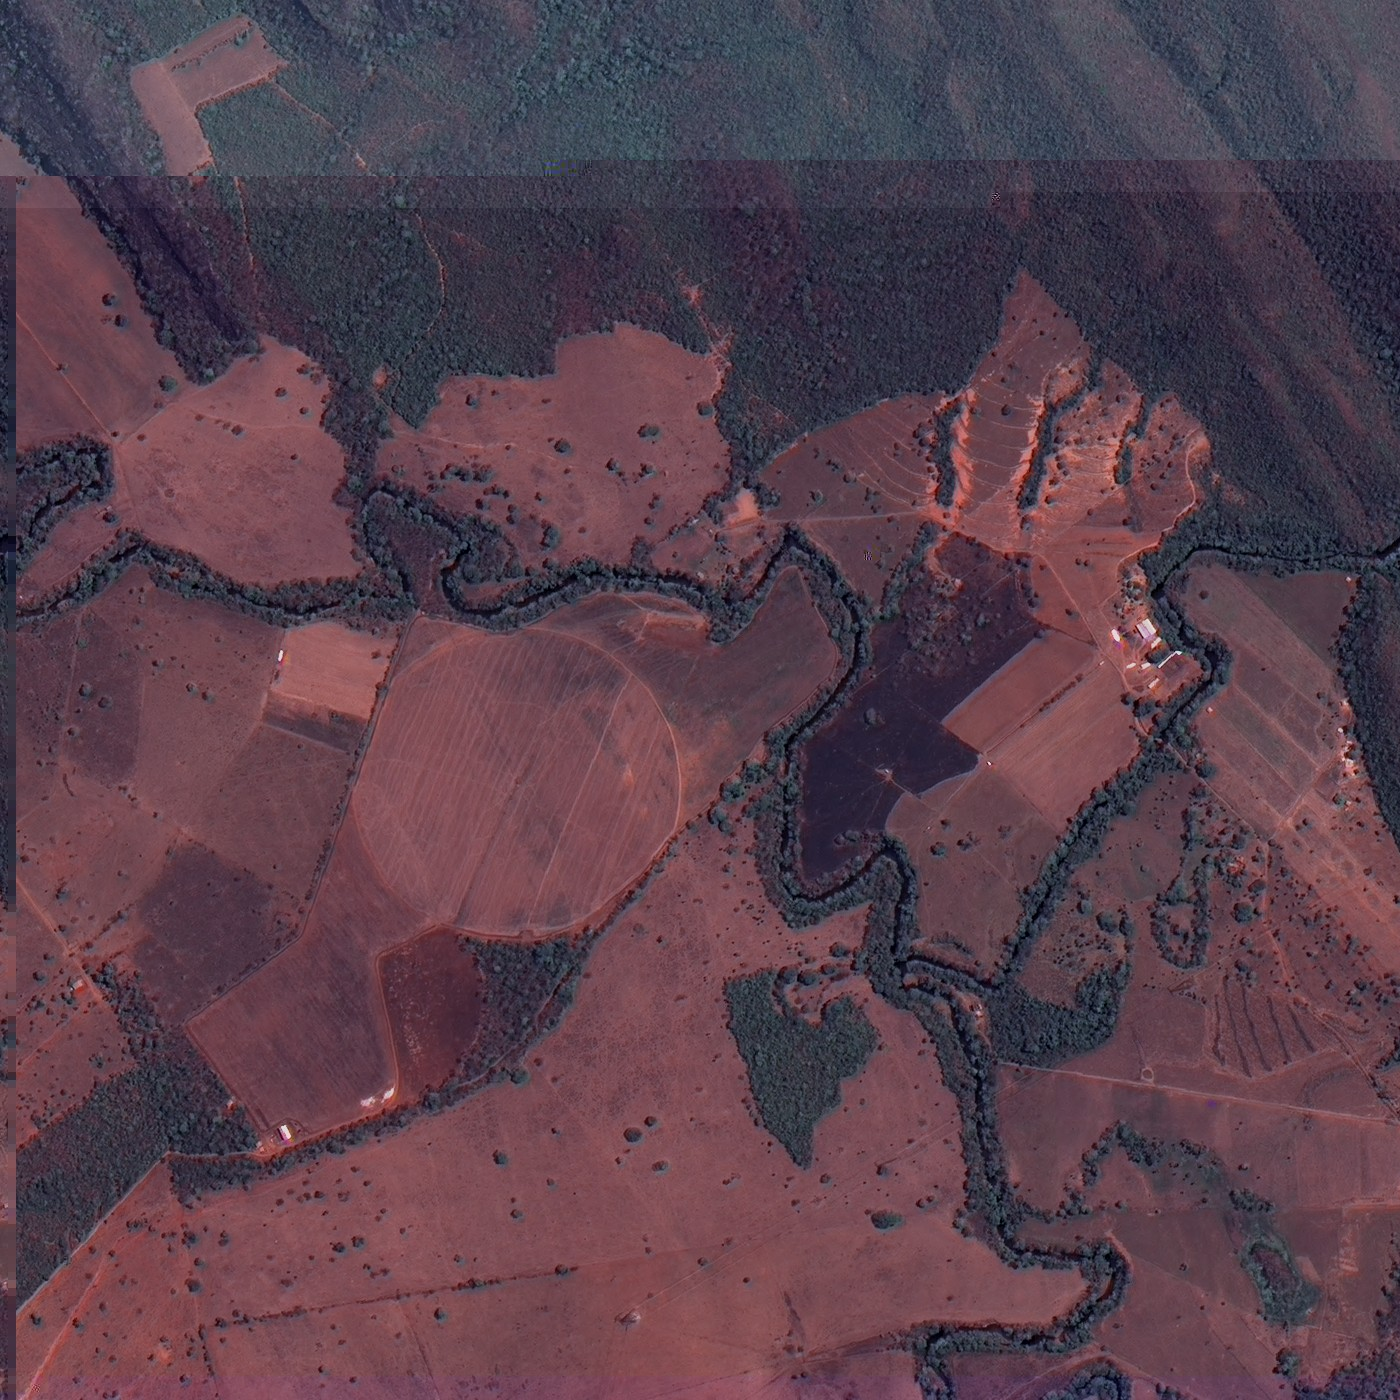
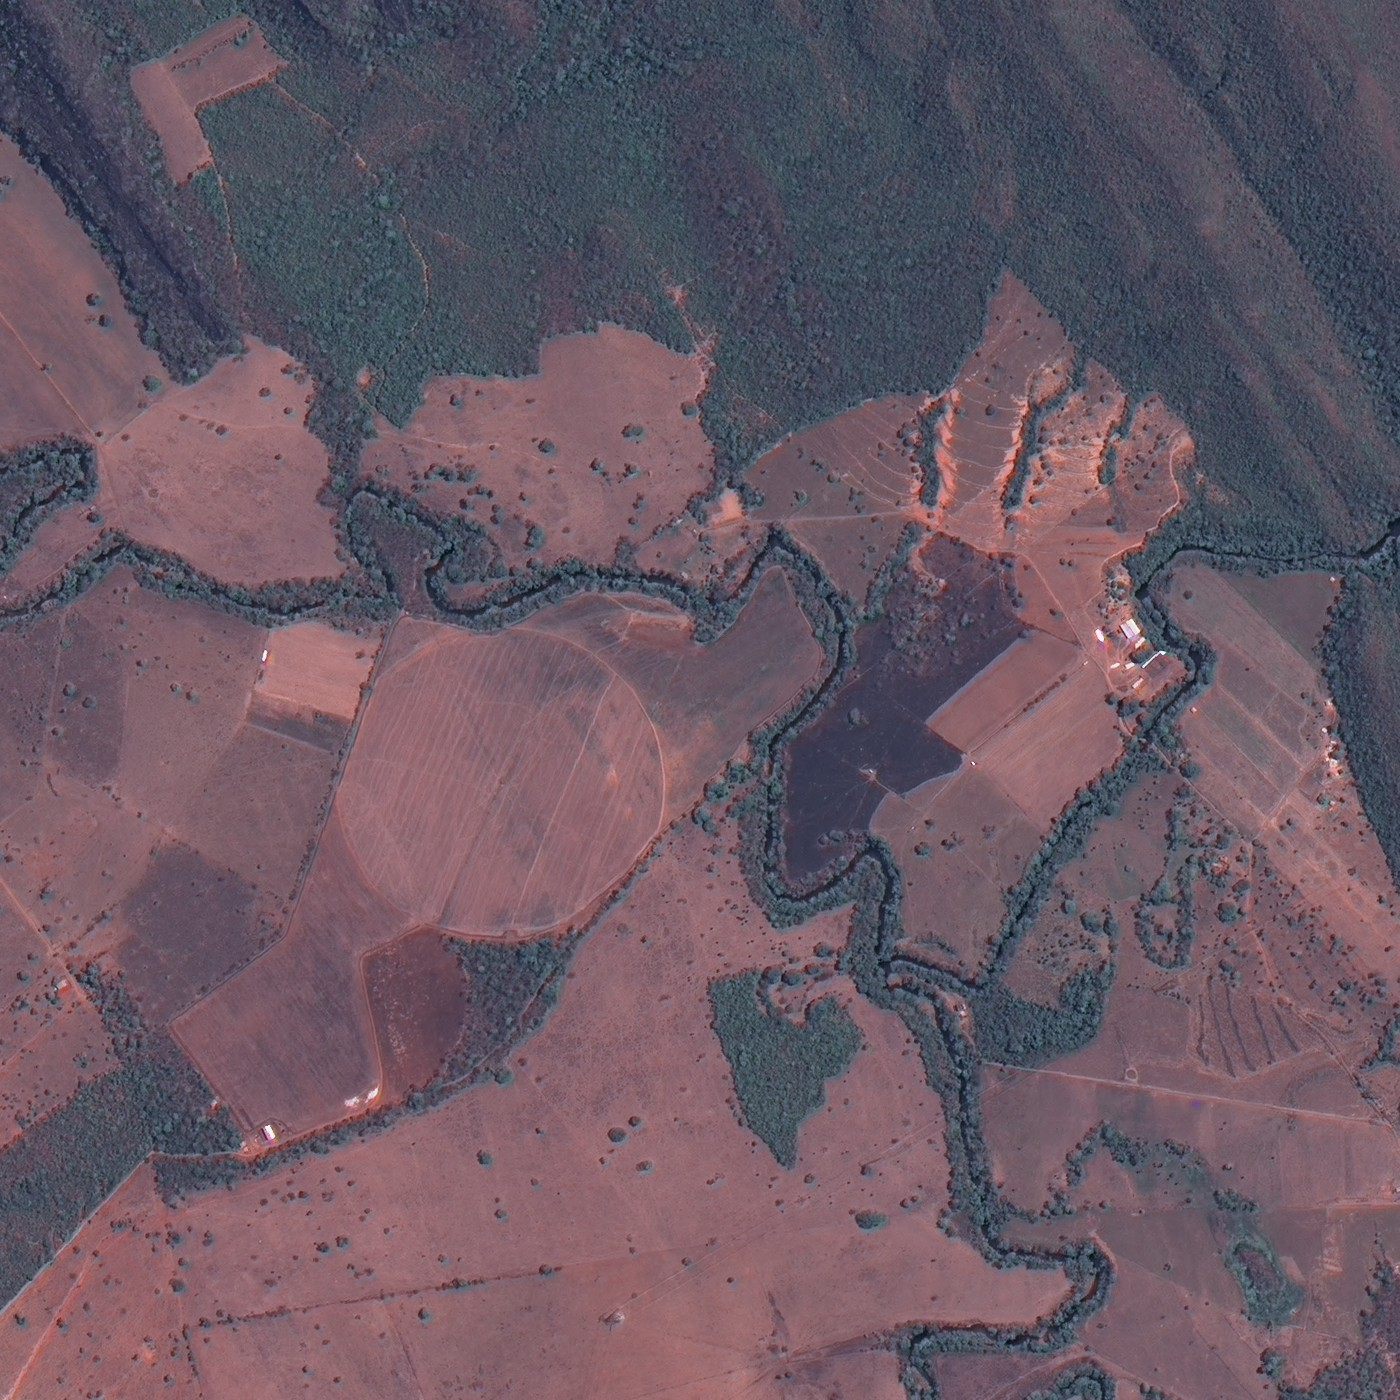
fix(maps): preserve geodata hashes across platforms

diff --git a/scripts/prepare-queimadas.py b/scripts/prepare-queimadas.py
@@ -129,12 +129,14 @@ def feature_json(geometry, properties):
     }
 
 
+def write_text_lf(path, contents):
+    with path.open("w", encoding="utf-8", newline="\n") as output:
+        output.write(contents)
+
+
 def write_geojson(filename, features):
     path = OUTPUT / filename
-    path.write_text(
-        json.dumps({"type": "FeatureCollection", "features": features}, ensure_ascii=False, separators=(",", ":")) + "\n",
-        encoding="utf-8",
-    )
+    write_text_lf(path, json.dumps({"type": "FeatureCollection", "features": features}, ensure_ascii=False, separators=(",", ":")) + "\n")
     return path
 
 
@@ -339,7 +341,7 @@ fire_theme = next(theme for theme in catalogue["themes"] if theme["id"] == "quei
 fire_theme["temporal"]["years"] = years
 fire_theme["temporal"]["partialYear"] = partial_year
 fire_theme["temporal"]["latestByLayer"] = available_latest
-catalogue_path.write_text(json.dumps(catalogue, ensure_ascii=False, indent=2) + "\n", encoding="utf-8")
+write_text_lf(catalogue_path, json.dumps(catalogue, ensure_ascii=False, indent=2) + "\n")
 
 report = {
     "preparedAt": datetime.now().astimezone().isoformat(timespec="seconds"),
@@ -369,8 +371,7 @@ metadata["limitations"] = [
     f"A série {partial_year} está incompleta após {period_label(focus_latest)}. A ausência de registros em um mês ou na camada não comprova ausência de queimadas." if note.startswith("A série 2026 está incompleta") and partial_year else note
     for note in metadata["limitations"]
 ]
-(OUTPUT / "metadata.json").write_text(
-    json.dumps({
+write_text_lf(OUTPUT / "metadata.json", json.dumps({
         **metadata,
         "preparedAt": report["preparedAt"],
         "counts": {
@@ -379,9 +380,7 @@ metadata["limitations"] = [
             "localidadesCenso2022": len(localities),
             "servicosPublicos": working_counts["servicos"],
         },
-    }, ensure_ascii=False, indent=2) + "\n",
-    encoding="utf-8",
-)
+    }, ensure_ascii=False, indent=2) + "\n")
 proof_files = []
 feature_counts = {
     "focos.geojson": len(focos),
@@ -401,7 +400,7 @@ for filename in required_files:
     if filename in feature_counts:
         item["features"] = feature_counts[filename]
     proof_files.append(item)
-(OUTPUT / "provenance.json").write_text(json.dumps({
+write_text_lf(OUTPUT / "provenance.json", json.dumps({
     "schemaVersion": 1,
     "preparedAt": report["preparedAt"],
     "municipalityCode": "3170404",
@@ -418,6 +417,6 @@ for filename in required_files:
         },
     },
     "files": proof_files,
-}, ensure_ascii=False, indent=2) + "\n", encoding="utf-8")
-(SOURCE / "preparo-relatorio.json").write_text(json.dumps(report, ensure_ascii=False, indent=2) + "\n", encoding="utf-8")
+}, ensure_ascii=False, indent=2) + "\n")
+write_text_lf(SOURCE / "preparo-relatorio.json", json.dumps(report, ensure_ascii=False, indent=2) + "\n")
 print(json.dumps(report, ensure_ascii=False, indent=2))
